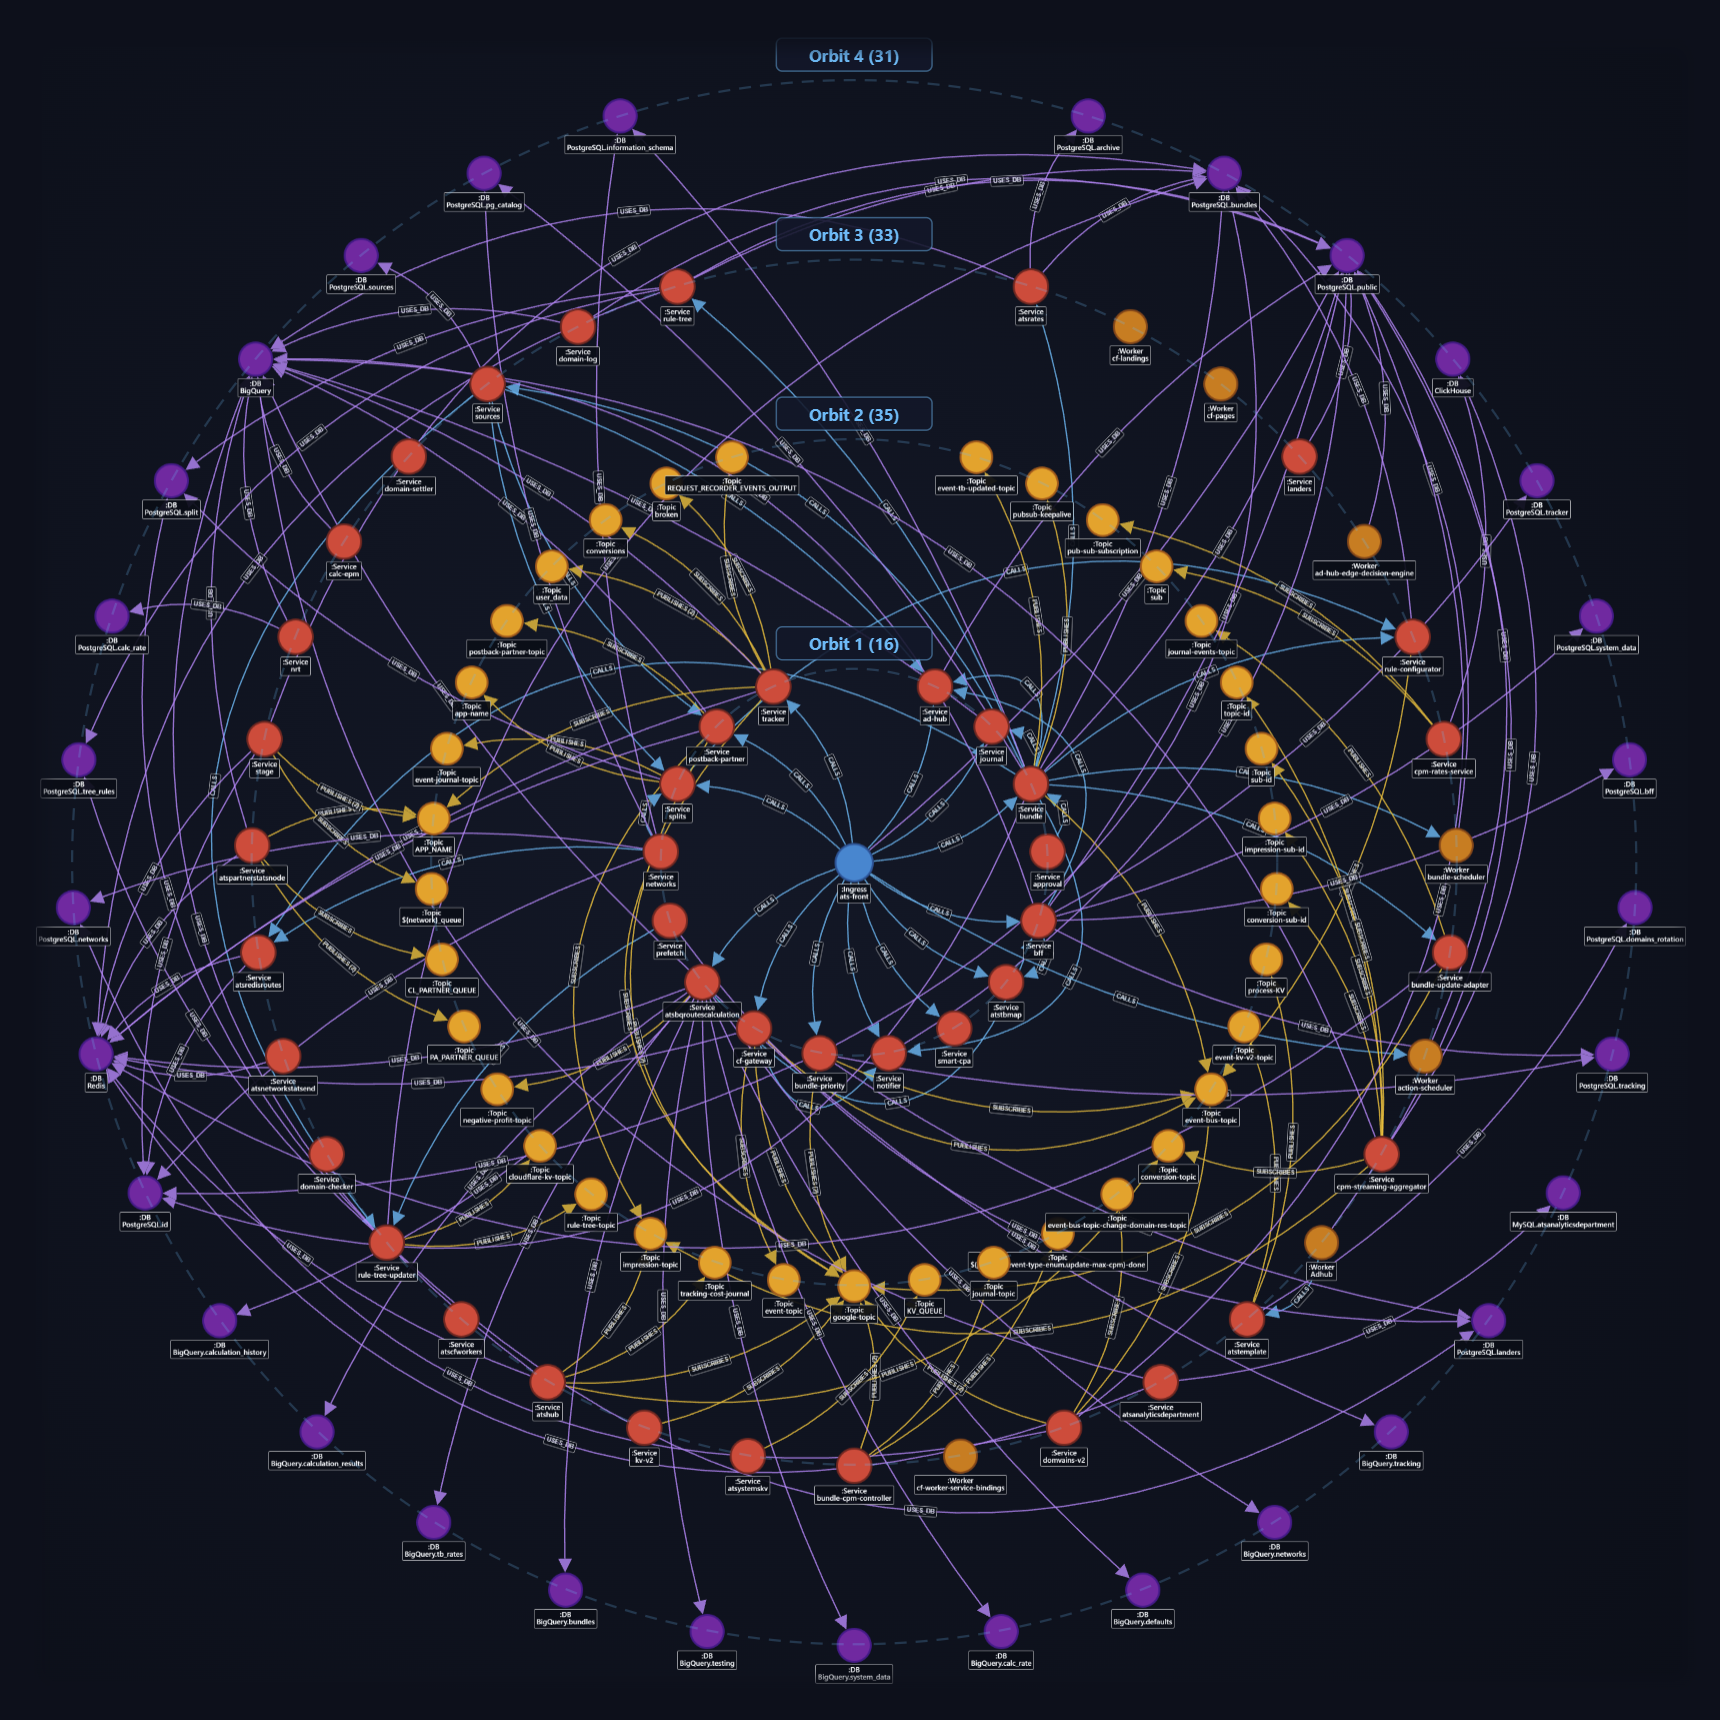
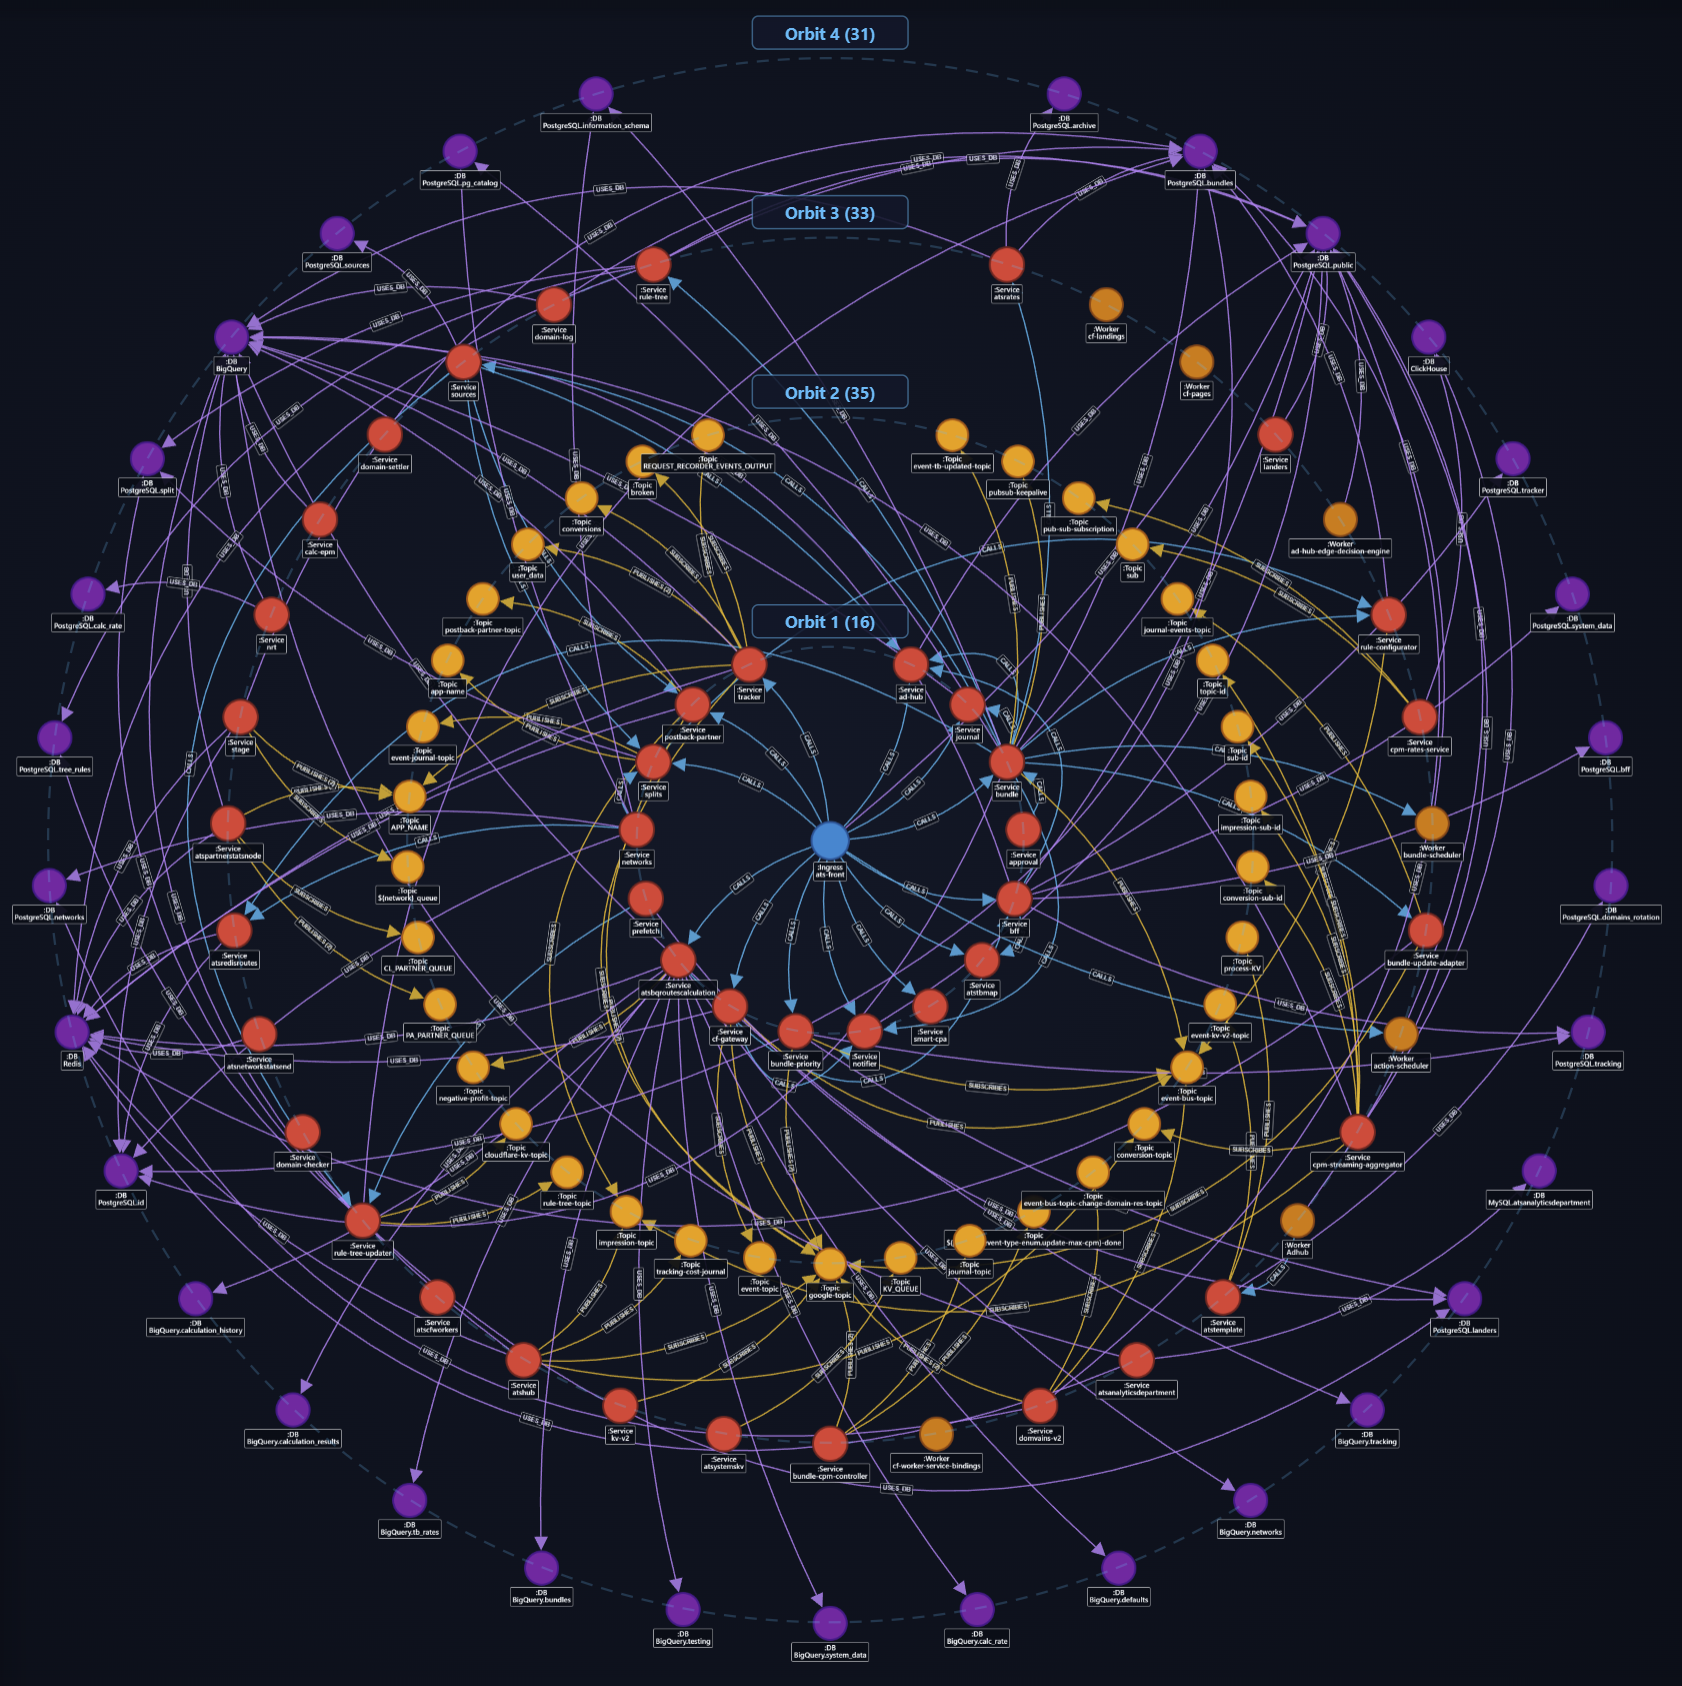
fix(assets): remove feathering and step, cleanly extend main background; keep ce brand badge in header

diff --git a/site/index.html b/site/index.html
@@ -1927,7 +1927,7 @@
 
         <div class="showcase-body">
           <div class="showcase-img-container" onclick="openLightbox()">
-            <img id="showcaseImage" class="showcase-img" src="all_services.png?v=v3" alt="CodeExplorer Macro Architecture Concentric Orbits">
+            <img id="showcaseImage" class="showcase-img" src="all_services.png?v=v4" alt="CodeExplorer Macro Architecture Concentric Orbits">
           </div>
 
           <div class="showcase-overlay-bar">
@@ -1948,7 +1948,7 @@
   <!-- Lightbox Modal for zooming screenshots -->
   <div id="lightboxModal" class="lightbox-modal" onclick="closeLightbox(event)">
     <button class="lightbox-close" onclick="closeLightbox()">&times;</button>
-    <img id="lightboxImg" class="lightbox-content" src="all_services.png?v=v3" alt="Enlarged Screenshot">
+    <img id="lightboxImg" class="lightbox-content" src="all_services.png?v=v4" alt="Enlarged Screenshot">
   </div>
 
   <!-- ==========================================================================
@@ -2928,12 +2928,12 @@
     // Data for Showcase Tabs
     const showcaseData = {
       orbits: {
-        img: 'all_services.png?v=v3',
+        img: 'all_services.png?v=v4',
         desc: '<strong>Macro Architecture Topology:</strong> Concentric rings project Ingress Gateways (Tier 0), Public APIs (Tier 1), Brokers (Tier 2), Domain Services (Tier 3), and Databases (Tier 4).',
         pills: ['Live Transitive Routing', 'Orbit Drag-and-Drop', 'Curvature: +65']
       },
       transitive: {
-        img: 'selected_services.png?v=v3',
+        img: 'selected_services.png?v=v4',
         desc: '<strong>Sub-Graph Neighborhood & Broker Contraction:</strong> Filter out Kafka/SQS message brokers to automatically synthesize direct dashed <code>[SUBSCRIBES (via Topic)]</code> links.',
         pills: ['Smart Broker Contraction', 'HUD Category Filters', 'Depth: 2 Hops']
       },
